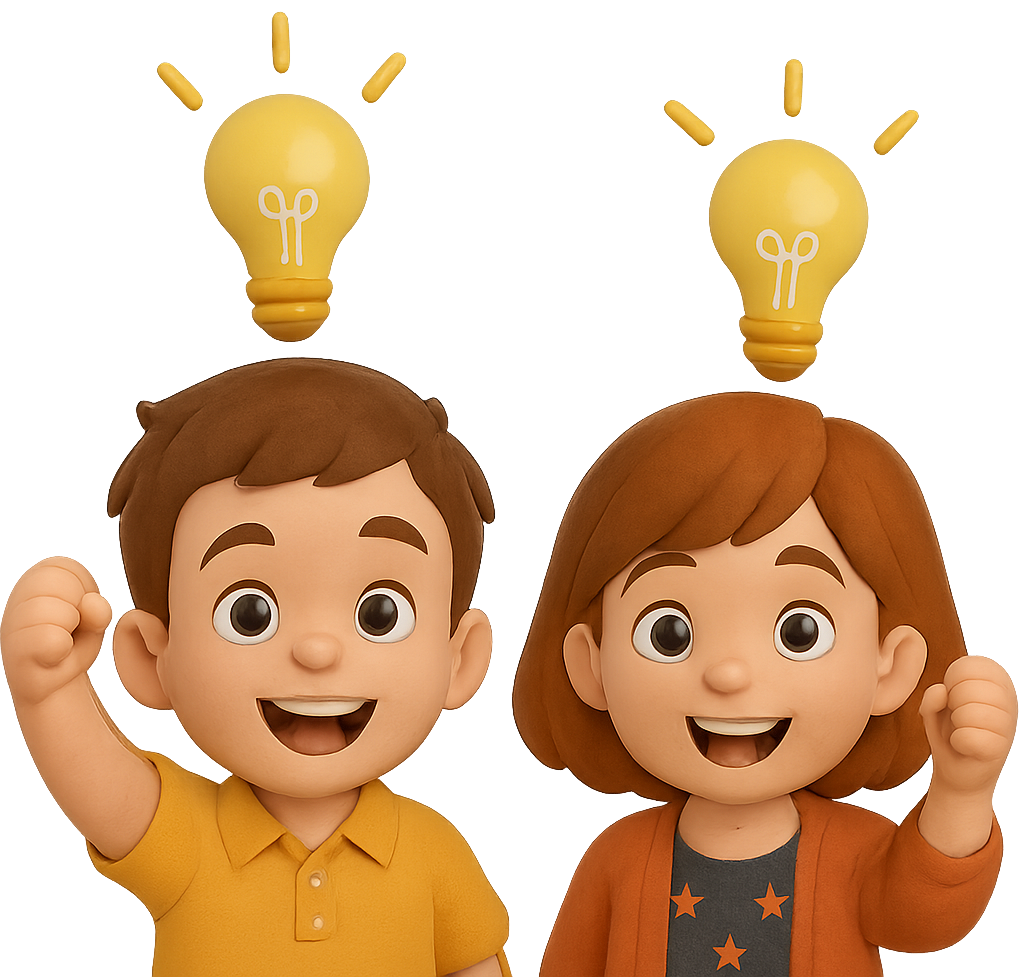
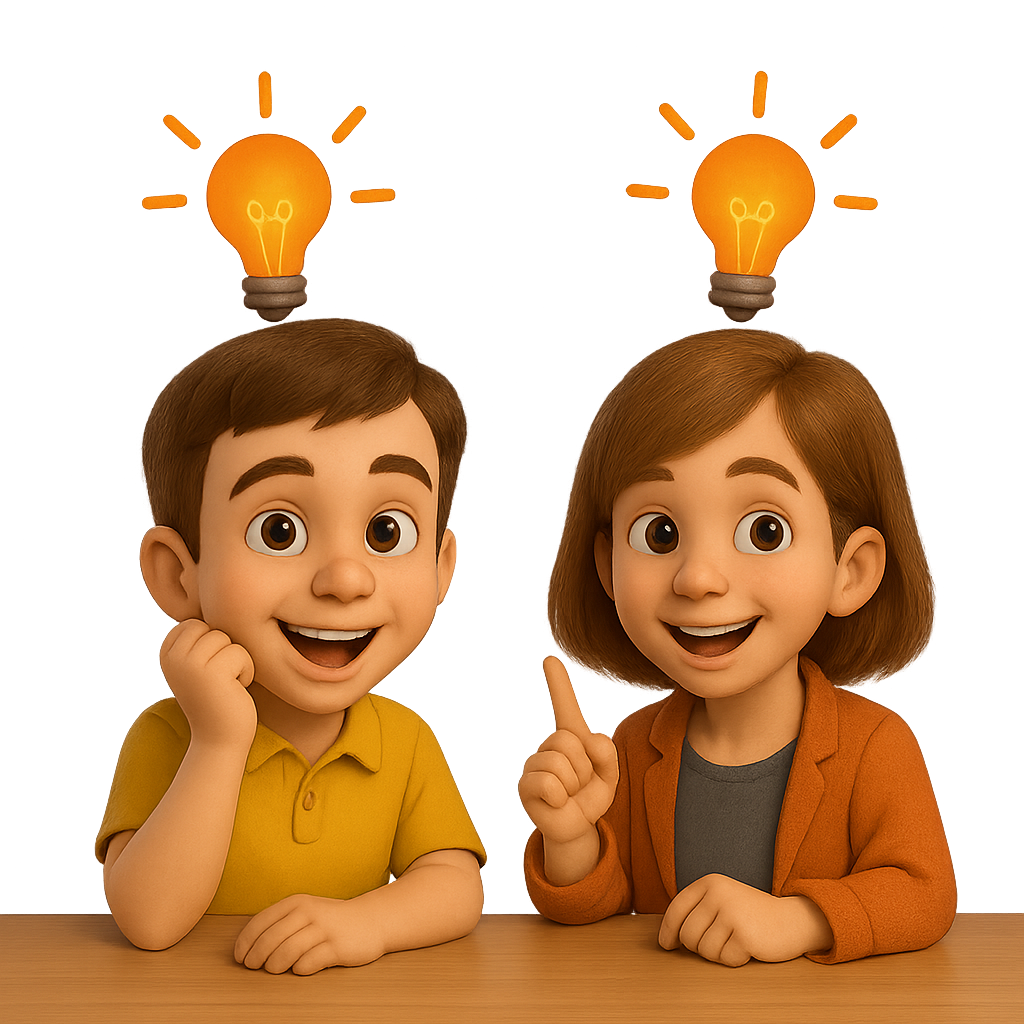
fix: improve UI and update logic to show metrics on each row

diff --git a/templates/evaluation.html b/templates/evaluation.html
@@ -15,18 +15,16 @@
                     <span>&nbsp;Jawabin</span>
                 </div>
 
-                <h1 class="display-4 fw-bold text-gradient">Uji Model Jawabin dengan Data Kamu!</h1>
+                <h1 class="display-4 fw-bold text-gradient">Uji Model Jawabin dengan Datamu!</h1>
                 <div class="title-line"></div>
                 <img id="illustrationImage" class="img-fluid mb-2"
-                    src="{{ url_for('static', filename='assets/img/illustrations/confuse-prediction.png') }}"
+                    src="{{ url_for('static', filename='assets/img/illustrations/confuse-evaluation.png') }}"
                     alt="Jawabin Illustration">
-                <p class="lead">Upload dataset kamu (konteks, pertanyaan, dan jawaban). Lihat performa model kami lewat
-                    metrik
-                    <strong>Exact
-                        Match</strong> dan <strong>F1 Score</strong>!
+                <p class="lead">
+                    Penasaran seberapa akurat model kami menjawab? Unggah dataset-mu (konteks, pertanyaan, dan jawaban),
+                    lalu cek
+                    performanya lewat <strong>Exact Match</strong> dan <strong>F1 Score</strong>!
                 </p>
-
-
             </div>
 
             <!-- Right Form -->
@@ -637,6 +635,9 @@
 
         // Function to handle evaluation results
         function handleEvaluationResults(data) {
+            const illustrationImage = document.getElementById('illustrationImage');
+            illustrationImage.src = "{{ url_for('static', filename='assets/img/illustrations/answer-prediction.png') }}";
+
             // Store results globally
             evaluationResults = data;
 
@@ -740,6 +741,7 @@
         }
 
         // Function to display sample results with pagination
+        // Function to display sample results with pagination
         function displaySampleResults(data, page) {
             // Clear existing results
             sampleResultsBody.innerHTML = '';
@@ -754,6 +756,14 @@
                 // Determine if answer is correct (exact match)
                 const isCorrect = item.jawaban.trim().toLowerCase() === item.prediksi.trim().toLowerCase();
 
+                // Get individual scores if available, or use default values
+                const exactMatch = item.exact_match !== undefined ? item.exact_match : (isCorrect ? 100 : 0);
+                const f1Score = item.f1_score !== undefined ? item.f1_score : (isCorrect ? 100 : 0);
+
+                // Format scores - remove decimal if it's a whole number
+                const formattedEM = Number.isInteger(exactMatch) ? exactMatch : exactMatch.toFixed(1);
+                const formattedF1 = Number.isInteger(f1Score) ? f1Score : f1Score.toFixed(1);
+
                 // Create DOM element
                 const resultItem = document.createElement('div');
                 resultItem.className = 'sample-result-item';
@@ -762,7 +772,11 @@
                 resultItem.innerHTML = `
                 <div class="sample-result-header">
                     <h5 class="sample-question">${item.pertanyaan}</h5>
-                    <div class="status-badge ${isCorrect ? 'correct' : 'incorrect'}">${isCorrect ? 'Benar' : 'Salah'}</div>
+                    <div class="status-container">
+                        <div class="status-badge ${isCorrect ? 'correct' : 'incorrect'}">${isCorrect ? 'Benar' : 'Salah'}</div>
+                        <div class="em-badge">EM: ${formattedEM}%</div>
+                        <span class="f1-badge">F1: ${formattedF1}%</span>
+                    </div>
                 </div>
                 <div class="sample-result-content">
                     <div class="context-preview">
@@ -781,7 +795,6 @@
                     </div>
                 </div>
             `;
-
                 sampleResultsBody.appendChild(resultItem);
             });
 

diff --git a/templates/prediction.html b/templates/prediction.html
@@ -33,11 +33,10 @@
                 <img id="illustrationImage" class="img-fluid mb-2"
                     src="{{ url_for('static', filename='assets/img/illustrations/confuse-prediction.png') }}"
                     alt="Jawabin Illustration">
-                <p class="lead">Biarkan AI kami bantu kamu temukan jawaban paling relevan langsung dari
-                    teks. Gak perlu
-                    cari manual — cukup masukkan
-                    konteks dan pertanyaanmu!</p>
-
+                <p class="lead">
+                    Temukan jawaban langsung dari teks dengan bantuan model kami. Cukup masukkan konteks dan pertanyaan,
+                    tanpa repot mencari manual!
+                </p>
             </div>
 
             <!-- Right Form -->
@@ -60,13 +59,13 @@
 
                         <div class="mb-4">
                             <label for="context" class="form-label">Konteks</label>
-                            <textarea class="form-control" id="context" name="context" rows="6"
+                            <textarea class="form-control" spellcheck="false" id="context" name="context" rows="8"
                                 placeholder="Masukkan teks konteks yang akan dianalisis..."></textarea>
                         </div>
 
                         <div class="mb-4">
                             <label for="question" class="form-label">Pertanyaan</label>
-                            <textarea class="form-control" id="question" name="question" rows="2"
+                            <textarea class="form-control" spellcheck="false" id="question" name="question" rows="2"
                                 placeholder="Masukkan pertanyaan yang ingin dijawab..."></textarea>
                         </div>
 
@@ -294,17 +293,17 @@
             });
         }
 
-        function showSuccessAlert(message) {
-            Swal.fire({
-                title: 'Berhasil!',
-                text: message,
-                icon: 'success',
-                confirmButtonText: 'OK',
-                confirmButtonColor: '#28a745',
-                timer: 2000,
-                timerProgressBar: true
-            });
-        }
+        // function showSuccessAlert(message) {
+        //     Swal.fire({
+        //         title: 'Berhasil!',
+        //         text: message,
+        //         icon: 'success',
+        //         confirmButtonText: 'OK',
+        //         confirmButtonColor: '#28a745',
+        //         timer: 2000,
+        //         timerProgressBar: true
+        //     });
+        // }
 
         // Function to show loading state in button
         function showLoadingButton() {
@@ -383,9 +382,6 @@
 
                     // Show results section
                     resultsSection.style.display = 'block';
-
-                    // Show success message
-                    showSuccessAlert('Prediksi berhasil dilakukan!');
 
                     // Scroll to results
                     resultsSection.scrollIntoView({ behavior: 'smooth', block: 'start' });

diff --git a/static/assets/css/style.css b/static/assets/css/style.css
@@ -48,7 +48,6 @@
     align-items: center;
     justify-content: center;
     color: #fff;
-    box-shadow: 0 4px 15px rgba(121, 78, 245, 0.3);
 }
 
 .brand-text {
@@ -1902,7 +1901,16 @@
     color: var(--text-dark);
 }
 
-.status-badge {
+.status-container {
+    display: flex;
+    align-items: center;
+    gap: 8px;
+}
+
+.status-badge,
+.em-badge,
+.f1-badge {
+    text-align: center;
     padding: 4px 12px;
     border-radius: 20px;
     font-size: 12px;
@@ -1918,6 +1926,16 @@
 .status-badge.incorrect {
     background-color: var(--danger-light);
     color: #822727;
+}
+
+.em-badge {
+    background-color: rgba(255, 180, 0, 0.15);
+    color: var(--primary-color);
+}
+
+.f1-badge {
+    background-color: rgba(94, 53, 177, 0.15);
+    color: var(--secondary-color);
 }
 
 .sample-result-content {

diff --git a/templates/index.html b/templates/index.html
@@ -30,7 +30,7 @@
 
                 <div class="hero-stats mt-5">
                     <div class="hero-stat-item">
-                        <div class="hero-stat-number">5<span class="small">dtk</span></div>
+                        <div class="hero-stat-number">&lt;5<span class="small">dtk</span></div>
                         <div class="hero-stat-label">Kecepatan Respon</div>
                     </div>
                     <div class="hero-stat-item">

diff --git a/evaluator.py b/evaluator.py
@@ -64,11 +64,32 @@ class Evaluator:
             # Calculate overall metrics
             results = self.metric.compute(predictions=predictions, references=references)
             
+            # Calculate metrics for each row
+            row_metrics = []
+            for i, row in df.iterrows():
+                row_pred = {"id": row["id"], "prediction_text": row["prediksi"]}
+                row_ref = {"id": row["id"], "answers": {"text": [row["jawaban"]], "answer_start": [0]}}
+                
+                # Calculate metrics for this individual row
+                row_result = self.metric.compute(
+                    predictions=[row_pred],
+                    references=[row_ref]
+                )
+                
+                row_metrics.append({
+                    "exact_match": row_result["exact_match"],
+                    "f1": row_result["f1"]
+                })
+            
+            # Add metrics to DataFrame
+            df["exact_match"] = [m["exact_match"] for m in row_metrics]
+            df["f1_score"] = [round(m["f1"], 2) for m in row_metrics]
+            
             # Prepare results to send back in the API response
-            evaluation_data = df[["konteks", "pertanyaan", "jawaban", "prediksi"]].to_dict(orient='records')
+            evaluation_data = df[["konteks", "pertanyaan", "jawaban", "prediksi", "exact_match", "f1_score"]].to_dict(orient='records')
             
             # Create a filtered DataFrame for CSV export
-            df_export = df[["konteks", "pertanyaan", "jawaban", "prediksi"]]
+            df_export = df[["konteks", "pertanyaan", "jawaban", "prediksi", "exact_match", "f1_score"]]
             
             # Store DataFrame in cache for later access
             self.cache.set(f'eval_{eval_id}', df_export.to_dict())
